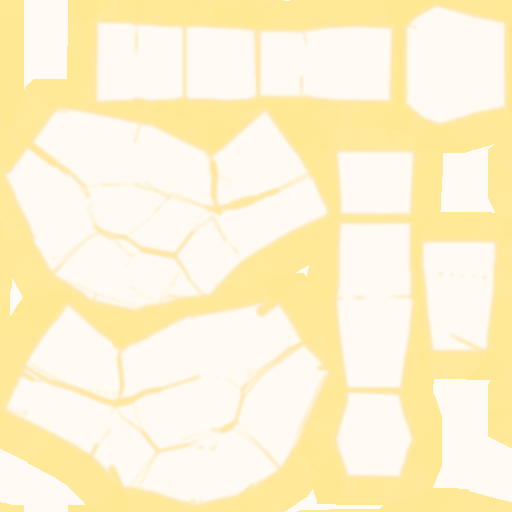
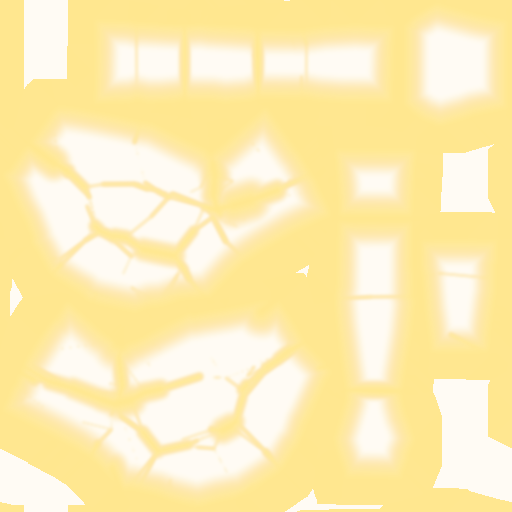
Tier coat v2 round 2: 2-3x wider soft edge band (per-part reach, mean 0.47 over UV islands), re-rendered previews and 4-panel strip

diff --git a/tools/blender/bake_tier_coat_v2.py b/tools/blender/bake_tier_coat_v2.py
@@ -7,7 +7,7 @@ diamond) bakes resources/effects/tiers/raptor-<part>-<tier>-v2-color.png, 512 x 
 
 LEAD / OWNER 2026-10-17 (Studio): the v1 maps (random facet patches, ~18% alpha) read as yellow blotches and washed the stripes. So v2 is a
 SMOOTH GRADIENT ONLY, no per-facet colour at all (the crystal facets live in the normal map, tier-crystal-normal.png, never in colour):
-  alpha  ~0.80-0.90 at silhouette edges and thin parts, fading smoothly to ~0.05 in the middle of a part (stripes keep their true colours),
+  alpha  ~0.88 at silhouette edges and thin parts, a soft band about 2-3x wider than round 1 (round 2, owner: 'bleed more in'), fading smoothly to ~0.05 in the middle of a part (stripes keep their true colours),
   colour a smooth ramp: the tier core colour in the middle, the tier edge colour (gold warm light, emerald mint, diamond white) at the edge.
 The edge field is view independent and computed per texel in 3D: the distance to the nearest sharp crease or open mesh edge (the places a
 low-poly dino's silhouette runs along), scaled by the crease sharpness, with an ABSOLUTE reach so thin parts (arms, toes, tail) get more
@@ -33,8 +33,8 @@ PARTS = ("body", "head", "tail", "leftarm", "rightarm", "leftleg", "rightleg")
 
 ALPHA_MIN = 0.05      # the middle of a part: the stripes keep their true colours
 ALPHA_MAX = 0.88      # silhouette edges and thin parts
-REACH = 0.20          # world units: how far a full-sharpness crease's coat reaches (tuned below to a ~0.30 mean over the UV islands)
-TARGET_MEAN = 0.30    # mean alpha over the UV-covered texels (lead 2026-10-17: ~0.3 is fine when the edges are strong)
+TARGET_MEAN = 0.42    # mean alpha over the UV-covered texels of EACH part (lead 2026-10-17 round 2: wide soft band, ~0.40-0.45)
+MIN_REACH = 0.14      # world units
 CREASE_FROM, CREASE_FULL = 6.0, 45.0  # dihedral angle (degrees) where a crease starts to count / counts fully
 
 # straight-alpha sRGB colours: (core in the middle, edge at the silhouette)
@@ -182,29 +182,27 @@ def main():
         deff = effective_distance(cov, pos, crease_edges(me))
         data[part] = (cov, deff)
         print("%-9s uv coverage %.2f, creases %d" % (part, cov.mean(), len(crease_edges(me))))
-    # one global reach, tuned so the mean alpha over every part's UV-covered texels lands on TARGET_MEAN
-    def covered_mean(reach):
-        tot = n = 0.0
-        for cov, deff in data.values():
-            f = blur(field_for(reach, cov, deff), cov)
-            a = ALPHA_MIN + (ALPHA_MAX - ALPHA_MIN) * np.clip(f, 0, 1)
-            tot += a[cov].sum()
-            n += cov.sum()
-        return tot / n
-    lo, hi = 0.03, 3.0
-    for _ in range(18):
-        mid = (lo + hi) / 2
-        if covered_mean(mid) < TARGET_MEAN:
-            lo = mid
-        else:
-            hi = mid
-    reach = (lo + hi) / 2
-    print("REACH %.3f -> covered mean alpha %.3f" % (reach, covered_mean(reach)))
+    # one reach PER PART, tuned so every part's mean alpha over its UV-covered texels lands on TARGET_MEAN: the band then scales with the
+    # part (a soft gradient covering roughly the outer 25-35% of its silhouette width, strongest at the crease, fading out smoothly)
+    def part_mean(reach, cov, deff):
+        f = blur(field_for(reach, cov, deff), cov)
+        return (ALPHA_MIN + (ALPHA_MAX - ALPHA_MIN) * np.clip(f, 0, 1))[cov].mean()
+    reaches = {}
+    for part, (cov, deff) in data.items():
+        lo, hi = 0.03, 6.0
+        for _ in range(20):
+            mid = (lo + hi) / 2
+            if part_mean(mid, cov, deff) < TARGET_MEAN:
+                lo = mid
+            else:
+                hi = mid
+        reaches[part] = max((lo + hi) / 2, MIN_REACH)   # thin parts (arms) get a band of at least MIN_REACH, so they are strong, never a net of fine lines
+        print("REACH %-9s %.3f -> covered mean alpha %.3f" % (part, reaches[part], part_mean(reaches[part], cov, deff)))
 
     report = {}
     for part in PARTS:
         cov, deff = data[part]
-        f = blur(field_for(reach, cov, deff), cov)
+        f = blur(field_for(reaches[part], cov, deff), cov)
         f, _ = bleed(f[..., None], cov)
         f = np.clip(f[..., 0], 0.0, 1.0)
         f[~np.isfinite(f)] = 0.0
@@ -216,13 +214,13 @@ def main():
             rgb = core * (1.0 - t) + edge * t        # smooth ramp, no per-facet colour
             rgba = np.concatenate([rgb, alpha[..., None]], axis=2)
             save_png(os.path.join(OUT, "raptor-%s-%s-v2-color.png" % (part, tier)), rgba)
-            report[(part, tier)] = (alpha.mean(), alpha[cov].mean())
+            report[(part, tier)] = (alpha.mean(), alpha[cov].mean(), (alpha[cov] <= 0.10).mean())
     for tier in TIERS:
         full = np.mean([report[(p, tier)][0] for p in PARTS])
         covd = np.mean([report[(p, tier)][1] for p in PARTS])
         print("TIER %-8s mean alpha: whole image %.3f, UV-covered %.3f" % (tier, full, covd))
         for p in PARTS:
-            print("   %-9s whole %.3f covered %.3f" % (p, *report[(p, tier)]))
+            print("   %-9s whole %.3f covered %.3f, share of covered texels with alpha <= 0.10: %.2f" % (p, *report[(p, tier)]))
 
     # lower roughness for the non-metallic gems: the shared Blender-baked roughness map, scaled down (gold keeps the original)
     src = bpy.data.images.load(os.path.join(OUT, "tier-crystal-roughness.png"))

diff --git a/docs/77-asset-registry.md b/docs/77-asset-registry.md
@@ -83,11 +83,11 @@ Every art asset the game uses at runtime. Add a line here when an asset is added
 | raptor_tier_color_leftleg_gold | texture 512 px RGBA, Blender Cycles bake in the part's original Roblox UVs (raptor.obj): gold coat colour, alpha ~0.9 at silhouette edges to ~0.1 in the middle (alpha edge-bleed) | resources/effects/tiers/raptor-leftleg-gold-color.png | 110600068291712 | build-time SurfaceAppearance `raptor_leftleg_geom_gold` in ReplicatedStorage.TierCoatTemplates (tools/build.py from `Tier.Maps.color.raptor.leftleg_geom.gold`), cloned onto the LPTierShell (AlphaMode Transparency) | uploaded (owner account, owner-approved TEST asset), bound; Studio look check by the lead pending |
 | raptor_tier_color_rightleg_gold | texture 512 px RGBA, Blender Cycles bake in the part's original Roblox UVs (raptor.obj): gold coat colour, alpha ~0.9 at silhouette edges to ~0.1 in the middle (alpha edge-bleed) | resources/effects/tiers/raptor-rightleg-gold-color.png | 86375362214763 | build-time SurfaceAppearance `raptor_rightleg_geom_gold` in ReplicatedStorage.TierCoatTemplates (tools/build.py from `Tier.Maps.color.raptor.rightleg_geom.gold`), cloned onto the LPTierShell (AlphaMode Transparency) | uploaded (owner account, owner-approved TEST asset), bound; Studio look check by the lead pending |
 | raptor_tier_color_<part>_<emerald/diamond> (14 files: body/head/tail/leftarm/rightarm/leftleg/rightleg x emerald/diamond) | same bake, emerald / diamond coat | resources/effects/tiers/raptor-<part>-<emerald/diamond>-color.png | - (owner uploads) | `Tier.Maps.color.raptor.<part>_geom.<tier>` (empty slots; Emerald/Diamond keep the plain shell until bound and approved) | baked 2026-10-16, NOT uploaded (docs/120) |
-| raptor_tier_color_<part>_gold_v2 (7 files: body/head/tail/leftarm/rightarm/leftleg/rightleg) | Blender bake (tools/blender/bake_tier_coat_v2.py) in the part's original Roblox UVs (raptor.obj), 512 px straight RGBA; v2 per lead/owner 2026-10-17: SMOOTH gradient only, NO facet colour patches (facets live in the normal map): alpha ~0.88 at silhouette creases / thin parts fading to 0.05 in the middle, mean alpha 0.31 over the UV islands (0.48 over the whole image, the gutter is bleed), colour ramp warm gold (250,186,38) to light gold (255,228,128); replaces the v1 gold maps above once uploaded and bound | resources/effects/tiers/raptor-<part>-gold-v2-color.png | - (lead uploads) | `Tier.Maps.color.raptor.<part>_geom.gold` (NOT changed: ids stay the v1 ones until the v2 ids exist) | baked 2026-10-17, NEEDS UPLOAD (docs/120) |
-| raptor_tier_color_<part>_emerald_v2 (7 files) | Blender bake (tools/blender/bake_tier_coat_v2.py) in the part's original Roblox UVs (raptor.obj), 512 px straight RGBA; v2 per lead/owner 2026-10-17: SMOOTH gradient only, NO facet colour patches (facets live in the normal map): alpha ~0.88 at silhouette creases / thin parts fading to 0.05 in the middle, mean alpha 0.31 over the UV islands (0.48 over the whole image, the gutter is bleed), colour ramp jewel green (20,190,100) to mint (150,255,200); non-metallic crystal | resources/effects/tiers/raptor-<part>-emerald-v2-color.png | - (lead uploads) | `Tier.Maps.color.raptor.<part>_geom.emerald` (empty slots) | baked 2026-10-17, NEEDS UPLOAD (docs/120) |
-| raptor_tier_color_<part>_diamond_v2 (7 files) | Blender bake (tools/blender/bake_tier_coat_v2.py) in the part's original Roblox UVs (raptor.obj), 512 px straight RGBA; v2 per lead/owner 2026-10-17: SMOOTH gradient only, NO facet colour patches (facets live in the normal map): alpha ~0.88 at silhouette creases / thin parts fading to 0.05 in the middle, mean alpha 0.31 over the UV islands (0.48 over the whole image, the gutter is bleed), colour ramp icy blue (176,218,248) to white (246,252,255); non-metallic crystal | resources/effects/tiers/raptor-<part>-diamond-v2-color.png | - (lead uploads) | `Tier.Maps.color.raptor.<part>_geom.diamond` (empty slots) | baked 2026-10-17, NEEDS UPLOAD (docs/120) |
+| raptor_tier_color_<part>_gold_v2 (7 files: body/head/tail/leftarm/rightarm/leftleg/rightleg) | Blender bake (tools/blender/bake_tier_coat_v2.py) in the part's original Roblox UVs (raptor.obj), 512 px straight RGBA; v2 per lead/owner 2026-10-17: SMOOTH gradient only, NO facet colour patches (facets live in the normal map): round 2 (owner: bleed in more): a soft band about 2-3x wider than round 1, covering roughly the outer 25-35% of each part, alpha ~0.88 at the silhouette/crease fading to 0.05 in the middle, mean alpha 0.47 over the UV islands (0.42 on body, head, tail and legs; 0.60 on the thin arms), 0.59 over the whole image incl. gutter bleed, colour ramp warm gold (250,186,38) to light gold (255,228,128); replaces the v1 gold maps above once uploaded and bound | resources/effects/tiers/raptor-<part>-gold-v2-color.png | - (lead uploads) | `Tier.Maps.color.raptor.<part>_geom.gold` (NOT changed: ids stay the v1 ones until the v2 ids exist) | baked 2026-10-17, NEEDS UPLOAD (docs/120) |
+| raptor_tier_color_<part>_emerald_v2 (7 files) | Blender bake (tools/blender/bake_tier_coat_v2.py) in the part's original Roblox UVs (raptor.obj), 512 px straight RGBA; v2 per lead/owner 2026-10-17: SMOOTH gradient only, NO facet colour patches (facets live in the normal map): round 2 (owner: bleed in more): a soft band about 2-3x wider than round 1, covering roughly the outer 25-35% of each part, alpha ~0.88 at the silhouette/crease fading to 0.05 in the middle, mean alpha 0.47 over the UV islands (0.42 on body, head, tail and legs; 0.60 on the thin arms), 0.59 over the whole image incl. gutter bleed, colour ramp jewel green (20,190,100) to mint (150,255,200); non-metallic crystal | resources/effects/tiers/raptor-<part>-emerald-v2-color.png | - (lead uploads) | `Tier.Maps.color.raptor.<part>_geom.emerald` (empty slots) | baked 2026-10-17, NEEDS UPLOAD (docs/120) |
+| raptor_tier_color_<part>_diamond_v2 (7 files) | Blender bake (tools/blender/bake_tier_coat_v2.py) in the part's original Roblox UVs (raptor.obj), 512 px straight RGBA; v2 per lead/owner 2026-10-17: SMOOTH gradient only, NO facet colour patches (facets live in the normal map): round 2 (owner: bleed in more): a soft band about 2-3x wider than round 1, covering roughly the outer 25-35% of each part, alpha ~0.88 at the silhouette/crease fading to 0.05 in the middle, mean alpha 0.47 over the UV islands (0.42 on body, head, tail and legs; 0.60 on the thin arms), 0.59 over the whole image incl. gutter bleed, colour ramp icy blue (176,218,248) to white (246,252,255); non-metallic crystal | resources/effects/tiers/raptor-<part>-diamond-v2-color.png | - (lead uploads) | `Tier.Maps.color.raptor.<part>_geom.diamond` (empty slots) | baked 2026-10-17, NEEDS UPLOAD (docs/120) |
 | tier_crystal_roughness_gem | texture 512 px tileable roughness: the Blender-baked tier_crystal_roughness scaled x0.5 (mean 0.115) for the non-metallic Emerald / Diamond; Gold keeps tier_crystal_roughness | resources/effects/tiers/tier-crystal-roughness-gem.png | - (lead uploads) | a per-tier roughness id is NOT wired yet (`Tier.Maps.roughness` is one shared id); needs a small Tier.Maps / tier_coat change when uploaded | baked 2026-10-17, NEEDS UPLOAD (docs/120) |
-| raptor_tier_preview_v2 | Blender Cycles preview renders of the three v2 tiers on the striped raptor (original, gold, emerald, diamond; 3/4 and side views, tools/blender/render_tier_coat_preview.py) | docs/evidence/2026-10-17-gold/raptor-<tier>-<view>.png | - | evidence only | rendered 2026-10-17 |
+| raptor_tier_preview_v2 | Blender Cycles preview renders of the three v2 tiers on the striped raptor (original, gold, emerald, diamond; 3/4 and side views, plus raptor-v2-4panel.png, tools/blender/render_tier_coat_preview.py) | docs/evidence/2026-10-17-gold/raptor-<tier>-<view>.png | - | evidence only | rendered 2026-10-17 |
 | tier_crystal_normal | texture 512 px tileable normal map (Blender bake, large flat crystal facets) | resources/effects/tiers/tier-crystal-normal.png | 80731894232842 | `Tier.Maps.normal`, written into every TierCoatTemplates SurfaceAppearance as NormalMap | uploaded (owner account, owner-approved TEST asset), bound |
 | tier_crystal_roughness | texture 512 px tileable roughness (Blender bake) | resources/effects/tiers/tier-crystal-roughness.png | 96432641754187 | `Tier.Maps.roughness`, written into every TierCoatTemplates SurfaceAppearance as RoughnessMap | uploaded (owner account, owner-approved TEST asset), bound |
 | tier_crystal_metalness | texture 512 px tileable metalness map | - (test map not kept) | - (the test upload 98581639691267 FAILED to fetch; never bind it) | `Tier.Maps.metalness` (empty; MetalnessMap is added to a template only when a valid id exists) | MISSING, see docs/120 |
